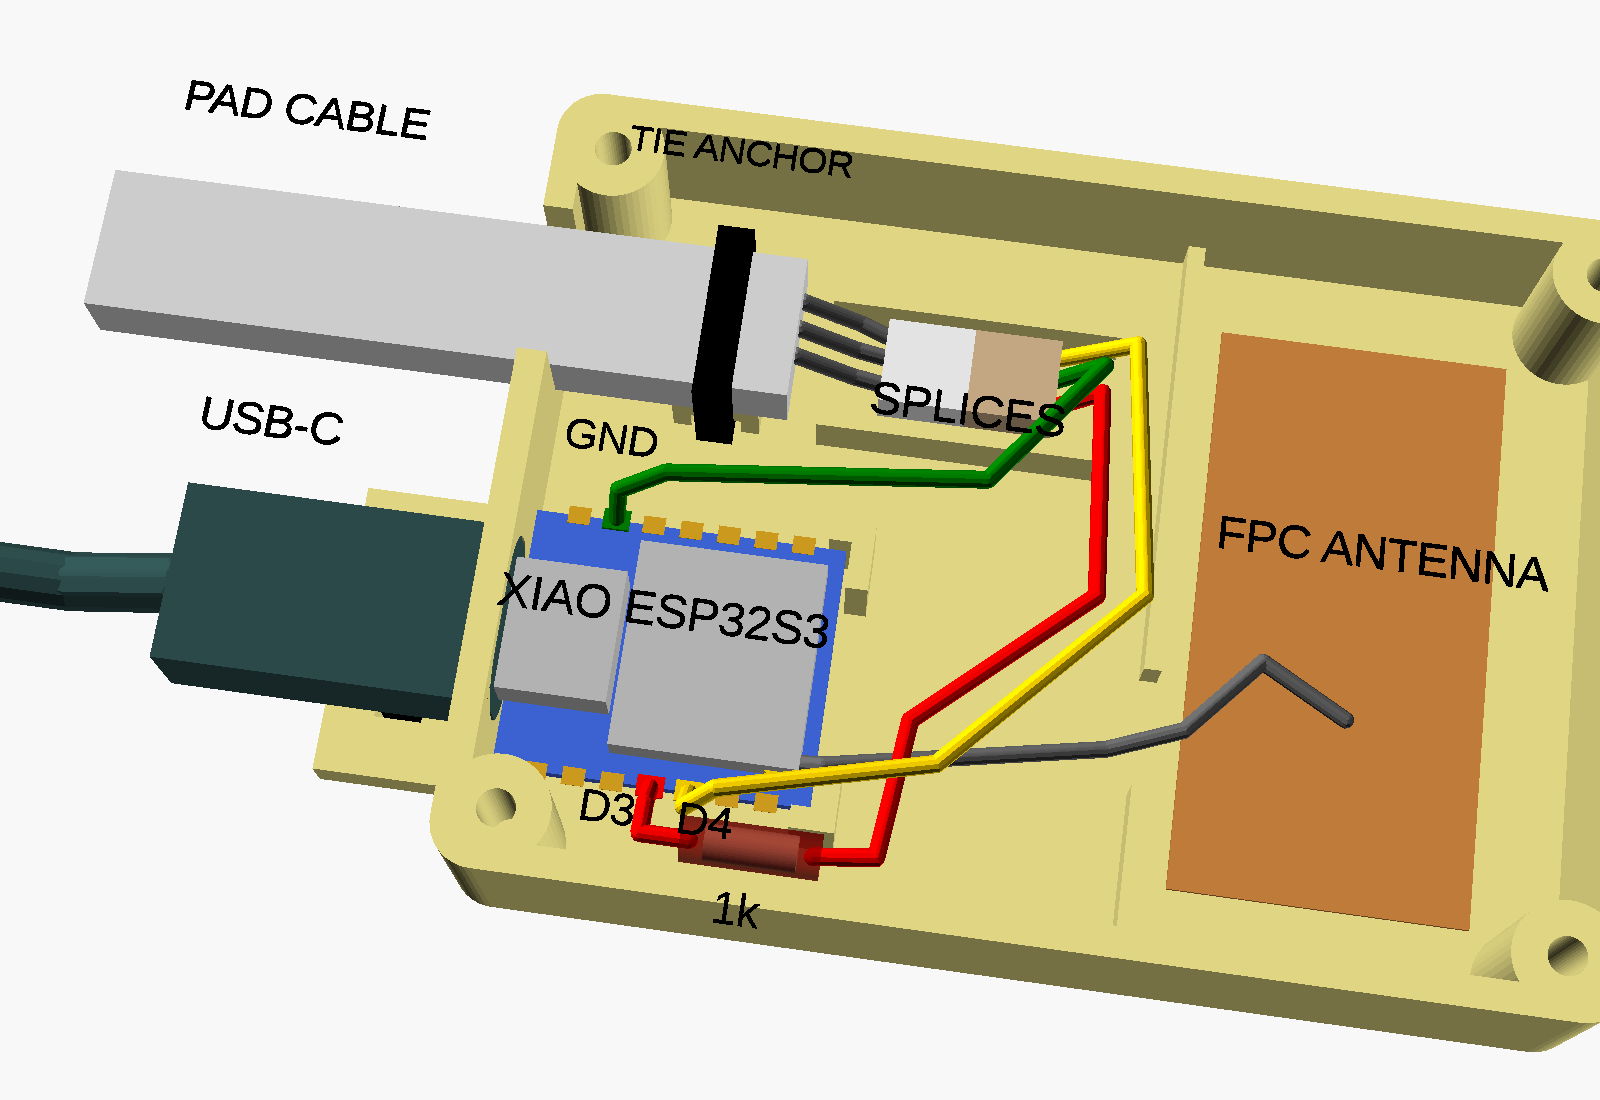
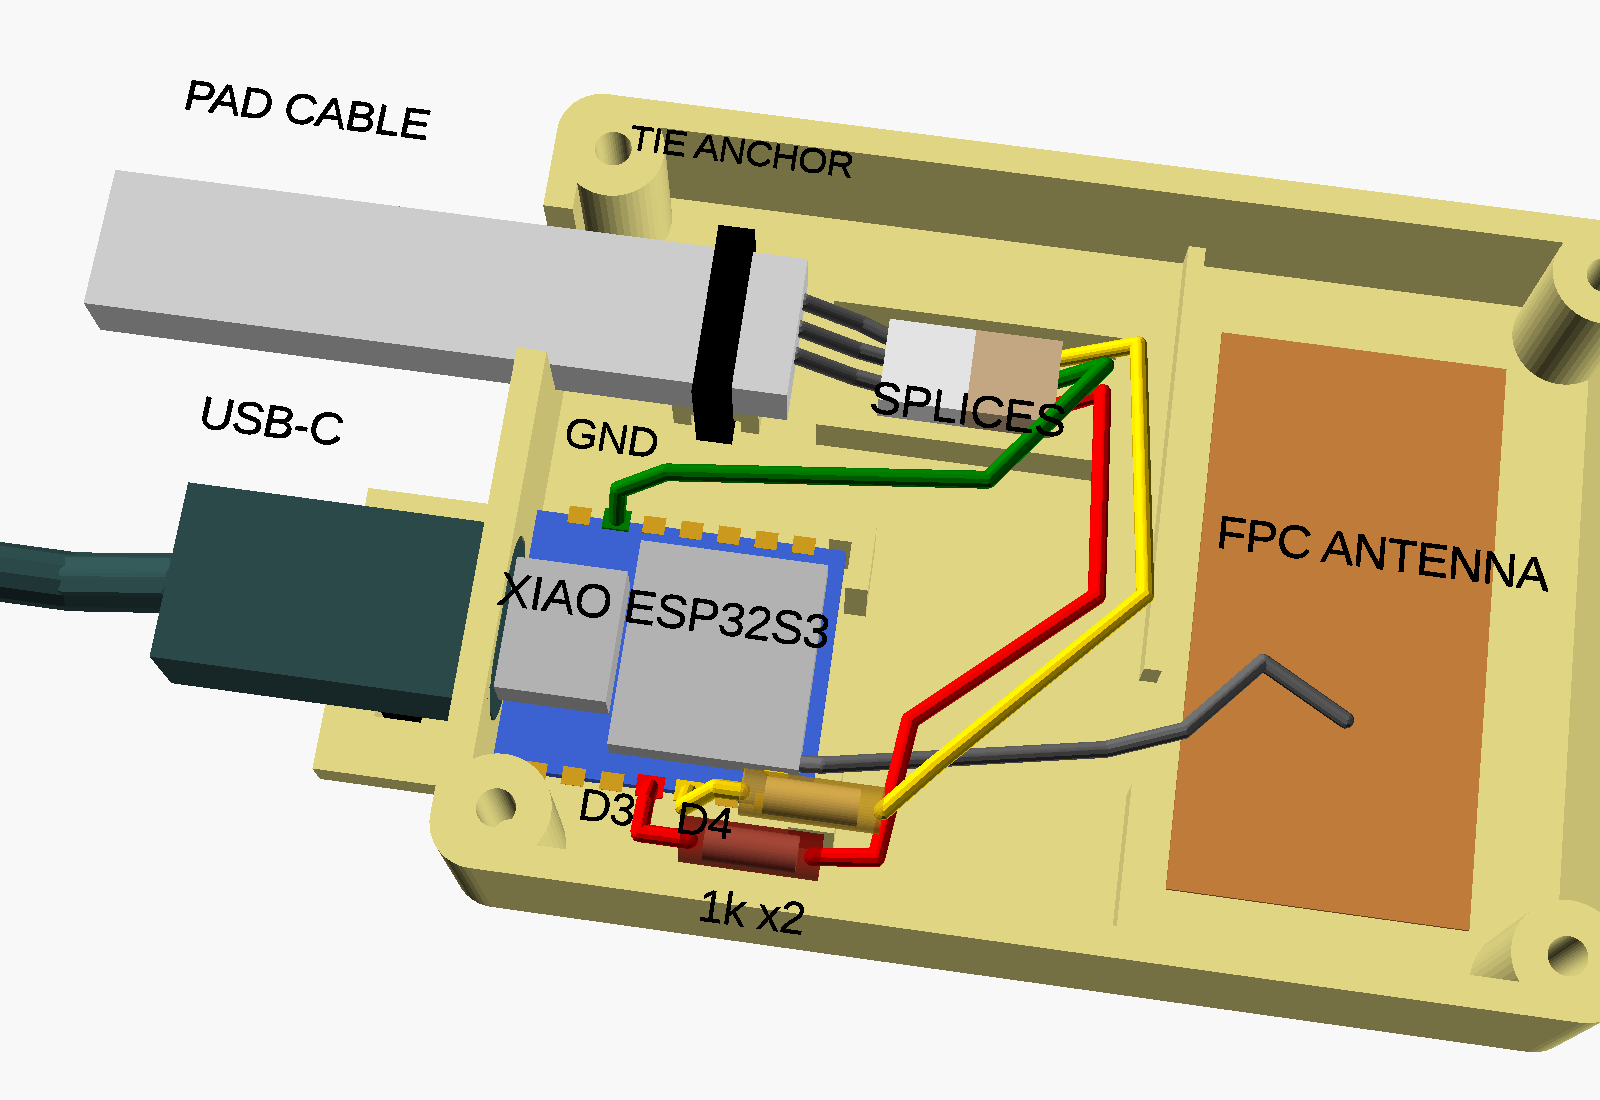
Add the 1 kOhm resistor on the check wire (D4)
The tested build has a resistor on both pad inputs, protecting D3 and
D4 from static on the long pad cable. Show it in the wiring diagram and
enclosure render, list two resistors in the parts list, and update the
build and pad guides. Also fix the ESPHome template's pointer to the
wiring diagram.

Changed region(s): [[0.4375, 0.68, 0.5938, 0.7727], [0.4375, 0.8036, 0.5, 0.8655]]

diff --git a/docs/build-guide.md b/docs/build-guide.md
@@ -16,7 +16,7 @@ Follow [identify-your-pad.md](identify-your-pad.md). You need to know three wire
 | --- | --- | --- |
 | Switch wire (one end of layer A) | red | D3, through the 1 kΩ resistor |
 | Return wire (one end of layer B) | green | GND |
-| Check wire (other end of layer B) | yellow | D4 |
+| Check wire (other end of layer B) | yellow | D4, through a second 1 kΩ resistor |
 | Unused (other end of layer A) | black | none, insulate |
 
 ## 3. Generate your configuration
@@ -37,7 +37,7 @@ If the board does not join WiFi, check the antenna first. See [troubleshooting.m
 
 ## 5. Test the pad on a breadboard
 
-Before soldering, wire the pad to the board through the breadboard: switch wire to D3 through the resistor, return wire to GND, check wire to D4. Then, watching Home Assistant:
+Before soldering, wire the pad to the board through the breadboard: switch wire to D3 and check wire to D4, each through a resistor, and return wire to GND. Then, watching Home Assistant:
 
 1. Pad empty: `Pad Raw` off, `Pad Cable` OK.
 2. Press the pad: `Pad Raw` on, `Occupied` on after the delay.
@@ -51,7 +51,7 @@ If any step fails, stop and see [troubleshooting.md](troubleshooting.md). Everyt
 Unplug the USB cable first.
 
 1. **Board wires.** Solder three short hookup wires to the XIAO: one to D3, one to D4, one to GND. D3 and D4 sit next to each other on one edge; GND is on the opposite edge, second from the USB-C end. Confirm against the labels printed on your board. Tin the pad and the wire first, then join them with a 2 to 3 second touch. Lingering lifts pads.
-2. **Resistor.** Splice the 1 kΩ resistor into the D3 wire, heat shrink over both joints and the resistor body.
+2. **Resistors.** Splice a 1 kΩ resistor into the D3 wire and another into the D4 wire, with heat shrink over each joint and each resistor body.
 3. **Splices to the pad.** Slide heat shrink on first, then splice each pad wire to its board wire. Keep the joints staggered so they cannot touch each other, and shrink the tubing over each.
 4. **Unused wire.** Trim it and cover the end with heat shrink so it cannot touch anything.
 5. Plug in and repeat the four breadboard checks from step 5.

diff --git a/docs/bom.md b/docs/bom.md
@@ -8,11 +8,11 @@ Quantities are for one chair. Nothing here is exotic; the only part that varies 
 | --- | --- | --- |
 | Seeed Studio XIAO ESP32S3 | 1 | The plain version, not the Sense. It ships with the U.FL FPC antenna, which is **required**: without it the board sees the network at about -90 dBm and cannot connect. Consider buying 2; the castellated pads lift if reworked too often. |
 | Chair sensor pad, corded, 10 x 15 in | 1 | **Tested:** Replacement 10in x 15in Chair Sensor Pad by Smart Caregiver, UPC 812293010372 ([Amazon B01N0P2J6X](https://www.amazon.com/dp/B01N0P2J6X)). A replacement pad for their TL-2100 series monitors, with a 4-wire modular plug. Other brands usually work, but wire colors and layout vary: see [identify-your-pad.md](identify-your-pad.md). |
-| 1 kΩ resistor, 1/4 W | 1 to 2 | One on the switch wire (D3) for static protection. A second on the check wire (D4) is optional. |
+| 1 kΩ resistor, 1/4 W | 2 | One on the switch wire (D3) and one on the check wire (D4), protecting the pins from static on the long pad cable. |
 | USB-C cable | 1 | Must carry data for the first flash. After that any cable works. |
 | 5 V USB power adapter, 1 A or more | 1 | Wall power only. WiFi drains a battery in under a day. |
 | Stranded hookup wire, 24 to 26 AWG | about 30 cm each of 3 colors | Match the pad colors if you can; it makes checking easier. |
-| Heat shrink tubing | assorted, 2 to 5 mm | For every splice and over the resistor. |
+| Heat shrink tubing | assorted, 2 to 5 mm | For every splice and over both resistors. |
 
 ## Enclosure and mounting
 

diff --git a/docs/identify-your-pad.md b/docs/identify-your-pad.md
@@ -29,7 +29,7 @@ Now measure every pair (four wires make six pairs), first with the pad empty, th
 
 ## Reading the results
 
-- **Two pairs at 0 Ω empty, cross pairs open empty and low when pressed:** the looped pad above. Wire one end of layer A to D3 (through the resistor), one end of layer B to GND, and the other end of layer B to D4 for cable-break detection. The fourth wire is unused.
+- **Two pairs at 0 Ω empty, cross pairs open empty and low when pressed:** the looped pad above. Wire one end of layer A to D3 and the other end of layer B to D4, each through a 1 kΩ resistor, and one end of layer B to GND. D4 is the cable-break check. The fourth wire is unused.
 - **Only two wires, open empty and low when pressed:** a plain switch pad. Wire one to D3 (through the resistor) and the other to GND. Then connect **D4 directly to GND** with a short wire, or the cable check will report a problem forever. Cable-break detection is not available with this pad.
 - **A cross pair is low when empty and opens when pressed:** a normally closed pad. It will work, but in the generated ESPHome file change `inverted: true` to `inverted: false` under the `Pad Raw` pin.
 - **Pressed reading above about 10 kΩ:** the pad is too resistive for the board's internal pull-up to read reliably. It needs a different design (an analog threshold), which this project does not cover yet.

diff --git a/README.md b/README.md
@@ -26,7 +26,7 @@ It was built for an elderly family member who uses a lift recliner and a walker 
 
 ## What you need
 
-A Seeed XIAO ESP32S3 with its antenna, a chair sensor pad, a 1 kΩ resistor, a USB power adapter, a 3D printed case, basic soldering tools, and Home Assistant with the companion app. Full list: [docs/bom.md](docs/bom.md).
+A Seeed XIAO ESP32S3 with its antenna, a chair sensor pad, two 1 kΩ resistors, a USB power adapter, a 3D printed case, basic soldering tools, and Home Assistant with the companion app. Full list: [docs/bom.md](docs/bom.md).
 
 ## Quick start
 
